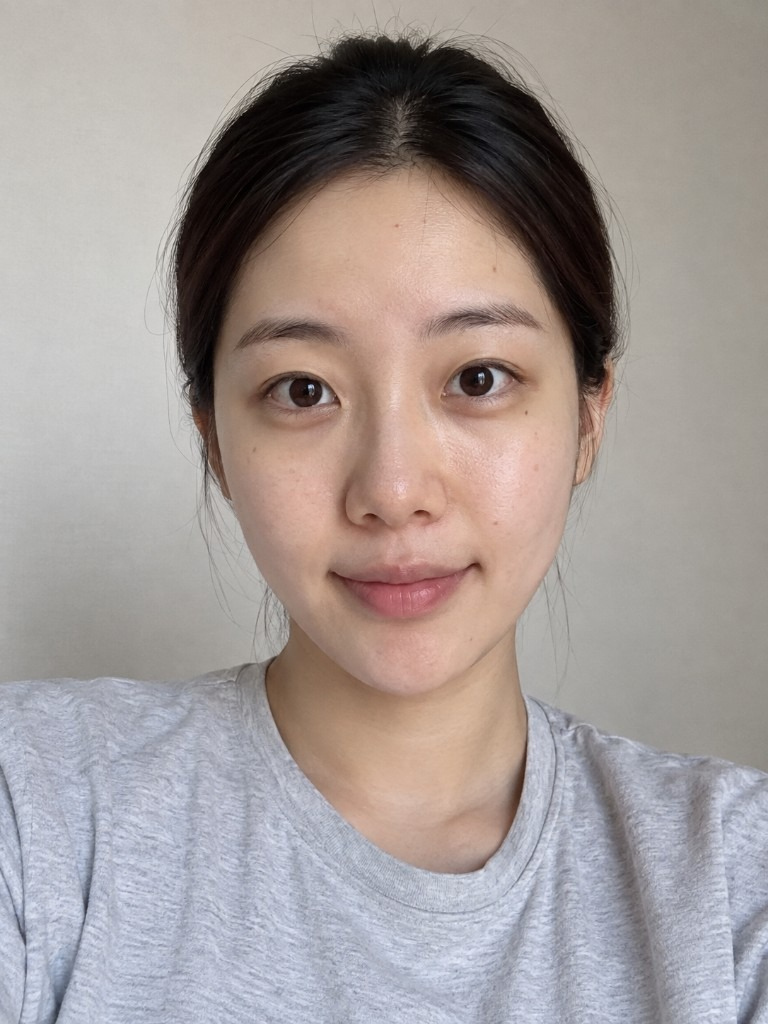
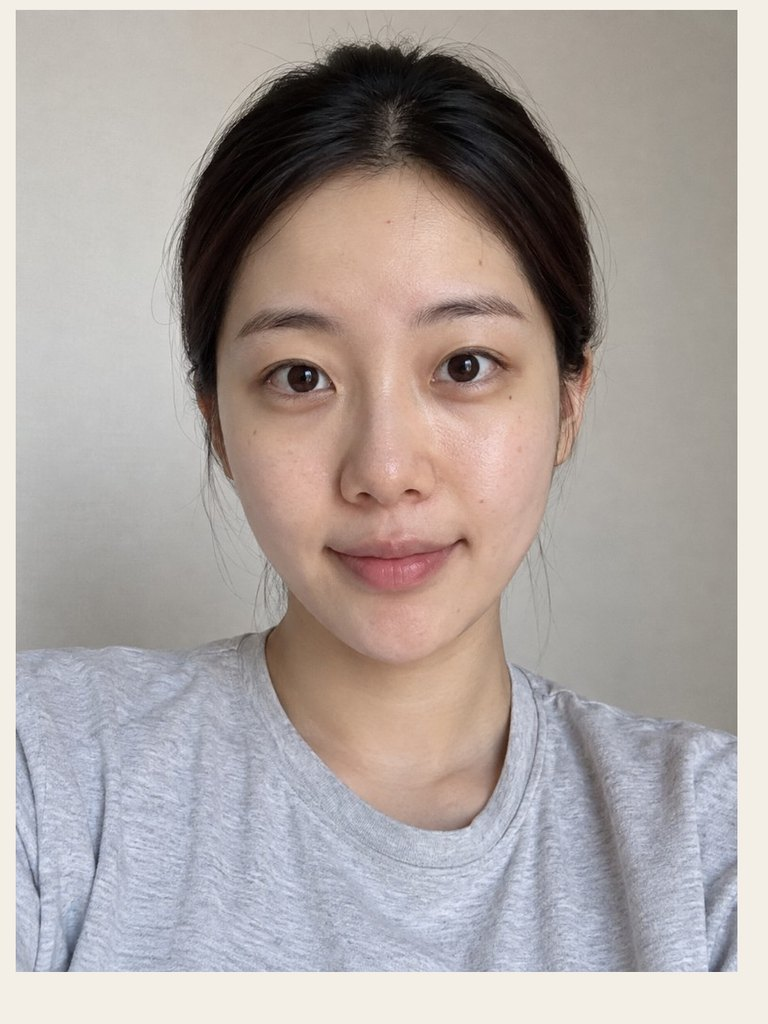
Dress the homepage with the new female A-cut set.
Same person from selfie through profile, career, and fashion, including the link preview and promo wall.

diff --git a/index.html b/index.html
@@ -12,8 +12,8 @@
     <meta property="og:title" content="myme studio — AI Photo Studio">
     <meta property="og:description" content="myme studio: meet the you you’ve never photographed. One selfie, a short chat with JUN—your AI photo concierge—and a profile A-cut that still looks like you.">
     <meta property="og:url" content="https://mymecorp.xyz/">
-    <meta property="og:image" content="https://mymecorp.xyz/myme_Design%20Asset/studio/before_after/hero_after.jpg">
-    <meta property="og:image:secure_url" content="https://mymecorp.xyz/myme_Design%20Asset/studio/before_after/hero_after.jpg">
+    <meta property="og:image" content="https://mymecorp.xyz/myme_Design%20Asset/studio/before_after/hero_after.jpg?v=20260919f">
+    <meta property="og:image:secure_url" content="https://mymecorp.xyz/myme_Design%20Asset/studio/before_after/hero_after.jpg?v=20260919f">
     <meta property="og:image:type" content="image/jpeg">
     <meta property="og:image:width" content="768">
     <meta property="og:image:height" content="1024">
@@ -21,7 +21,7 @@
     <meta name="twitter:card" content="summary_large_image">
     <meta name="twitter:title" content="myme studio — AI Photo Studio">
     <meta name="twitter:description" content="myme studio: meet the you you’ve never photographed. One selfie, a short chat with JUN—your AI photo concierge—and a profile A-cut that still looks like you.">
-    <meta name="twitter:image" content="https://mymecorp.xyz/myme_Design%20Asset/studio/before_after/hero_after.jpg">
+    <meta name="twitter:image" content="https://mymecorp.xyz/myme_Design%20Asset/studio/before_after/hero_after.jpg?v=20260919f">
 
     <!-- Favicon and Icons -->
     <link rel="icon" type="image/x-icon" href="./myme_Design Asset/favicon/favicon.ico">
@@ -626,6 +626,7 @@
 
         .promo-showcase__cell img {
             object-fit: cover;
+            object-position: center 18%;
             width: 100%;
             height: 100%;
             display: block;
@@ -915,12 +916,12 @@
                 <h1 data-i18n-key="hero.title">Meet the you<br><span class="highlight">you’ve never photographed</span></h1>
                 <div class="hero-ba" aria-hidden="false">
                     <div class="hero-ba__card">
-                        <img src="./myme_Design Asset/studio/before_after/hero_before.jpg" alt="Selfie before" data-i18n-alt-key="hero.ba.before.alt" width="768" height="1024" loading="eager">
+                        <img src="./myme_Design Asset/studio/before_after/hero_before.jpg?v=20260919f" alt="Selfie before" data-i18n-alt-key="hero.ba.before.alt" width="768" height="1024" loading="eager">
                         <span class="hero-ba__label" data-i18n-key="hero.ba.before">Selfie</span>
                     </div>
                     <div class="hero-ba__arrow" aria-hidden="true">→</div>
                     <div class="hero-ba__card">
-                        <img src="./myme_Design Asset/studio/before_after/hero_after.jpg" alt="Profile A-cut after" data-i18n-alt-key="hero.ba.after.alt" width="768" height="1024" loading="eager">
+                        <img src="./myme_Design Asset/studio/before_after/hero_after.jpg?v=20260919f" alt="Profile A-cut after" data-i18n-alt-key="hero.ba.after.alt" width="768" height="1024" loading="eager">
                         <span class="hero-ba__label" data-i18n-key="hero.ba.after">A-cut</span>
                     </div>
                 </div>
@@ -966,21 +967,21 @@
                 <p class="section-sub" data-i18n-key="use.sub">Tell JUN where it’s going—your look is curated to fit.</p>
                 <div class="usecase-grid">
                     <div class="usecase-card">
-                        <img src="./myme_Design Asset/studio/usecases/profile.jpg" alt="Profile photo example" data-i18n-alt-key="use.profile.alt" loading="lazy" width="900" height="1189">
+                        <img src="./myme_Design Asset/studio/usecases/profile.jpg?v=20260919f" alt="Profile photo example" data-i18n-alt-key="use.profile.alt" loading="lazy" width="900" height="1200">
                         <div class="usecase-body">
                             <div class="usecase-title" data-i18n-key="use.profile.title">Profile</div>
                             <p class="usecase-desc" data-i18n-key="use.profile.desc">Warm, natural profile photos for apps and communities.</p>
                         </div>
                     </div>
                     <div class="usecase-card">
-                        <img src="./myme_Design Asset/studio/usecases/linkedin.jpg" alt="Career portrait example" data-i18n-alt-key="use.career.alt" loading="lazy" width="900" height="1196">
+                        <img src="./myme_Design Asset/studio/usecases/linkedin.jpg?v=20260919f" alt="Career portrait example" data-i18n-alt-key="use.career.alt" loading="lazy" width="900" height="1200">
                         <div class="usecase-body">
                             <div class="usecase-title" data-i18n-key="use.career.title">Career</div>
                             <p class="usecase-desc" data-i18n-key="use.career.desc">LinkedIn-ready portraits that earn trust at a glance.</p>
                         </div>
                     </div>
                     <div class="usecase-card">
-                        <img src="./myme_Design Asset/studio/usecases/fashion.jpg" alt="Fashion A-cut example" data-i18n-alt-key="use.fashion.alt" loading="lazy" width="900" height="1172">
+                        <img src="./myme_Design Asset/studio/usecases/fashion.jpg?v=20260919f" alt="Fashion A-cut example" data-i18n-alt-key="use.fashion.alt" loading="lazy" width="900" height="1200">
                         <div class="usecase-body">
                             <div class="usecase-title" data-i18n-key="use.fashion.title">Fashion</div>
                             <p class="usecase-desc" data-i18n-key="use.fashion.desc">Polished fashion and personal-brand A-cuts for your feed.</p>
@@ -2091,20 +2092,13 @@
             var timeoutId = null;
             var imageBase = "./myme_Design%20Asset/studio/wall/";
 
-            // App Gallery cards (female/male) + Discover child A-cuts — see wall/manifest.json
+            // Female A-cuts from the 2026-09-19 carousel — see wall/manifest.json
             var fallbackPromoImages = [
-                "g30_f_profile_20s.jpg",
-                "g21_f_linkedin_20s.jpg",
-                "g25_f_dating_20s.jpg",
-                "g33_f_profile_viral.jpg",
-                "g05_m_profile_20s.jpg",
-                "g01_m_linkedin_20s.jpg",
-                "g02_m_dating_20s.jpg",
-                "g34_m_profile_viral.jpg",
-                "child_cf02.jpg",
-                "child_cf04.jpg",
-                "child_cm00.jpg",
-                "child_cm03.jpg"
+                "f_natural.jpg",
+                "f_career.jpg",
+                "f_cinematic.jpg",
+                "f_editorial.jpg",
+                "f_id.jpg"
             ];
 
             var imagePool = fallbackPromoImages.slice();
